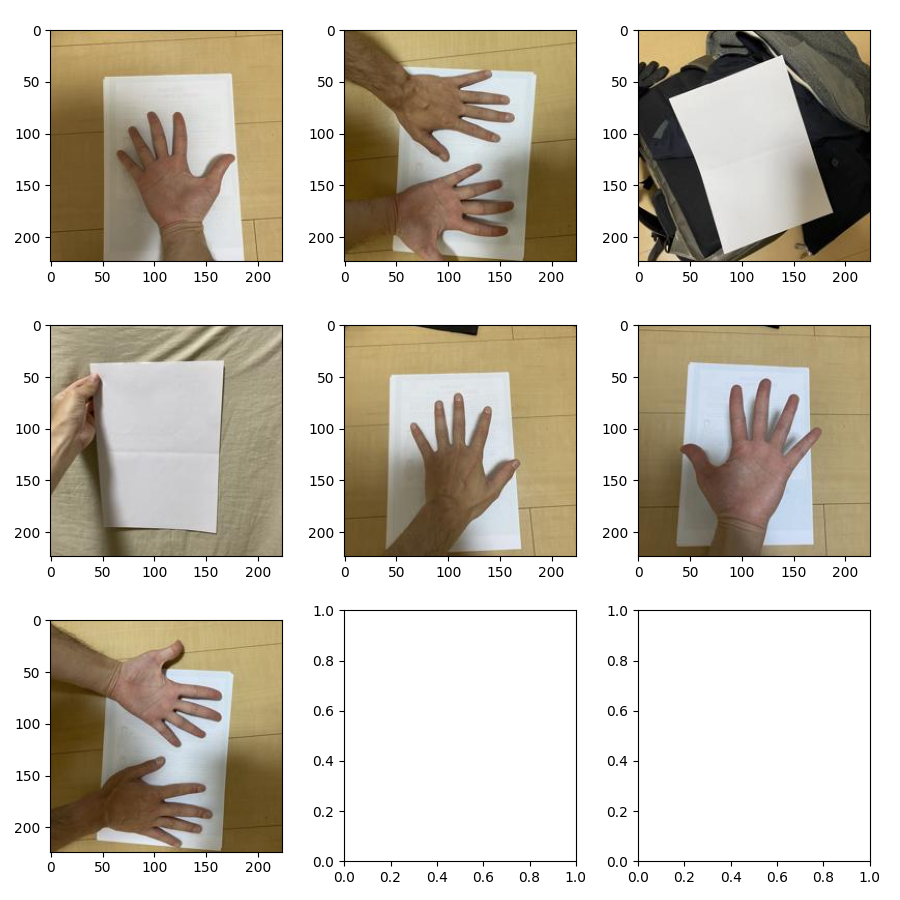
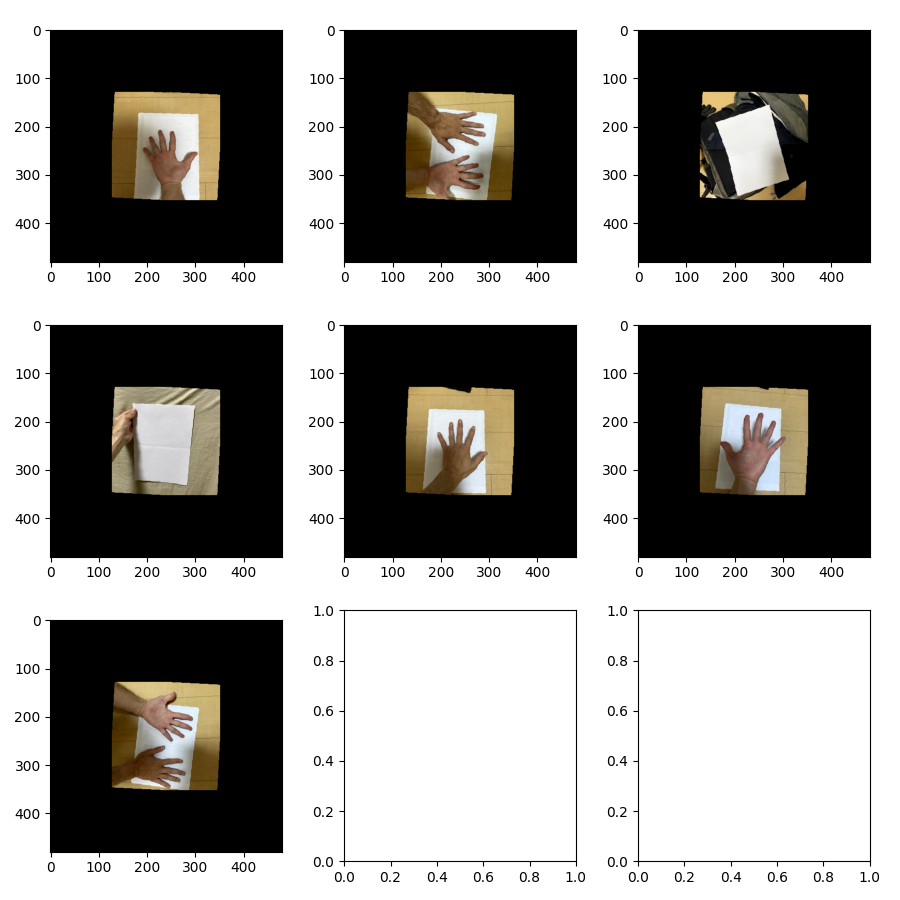
fix

diff --git a/torchvision_image_test.py b/torchvision_image_test.py
@@ -14,6 +14,15 @@ from PIL import Image
 import torchvision.transforms as T
 from torchvision.transforms import v2
 
+import torchvision.transforms.v2 as transforms
+
+transform = transforms.Compose(
+    [
+        transforms.ColorJitter(contrast=0.5),
+        transforms.RandomRotation(30),
+        transforms.CenterCrop(480),
+    ]
+)
 
 # def imshow(img):
 #     img = torchvision.utils.make_grid(img)
@@ -70,6 +79,7 @@ def main():
     #     break
     # plt.show()
     images = get_images()
+    images = transform(images)
     print(images.shape, len(images))
     fig, axes = plt.subplots(3, 3, figsize=(9, 9), tight_layout=True)
     for ax, img in zip(axes.flatten(), images):
